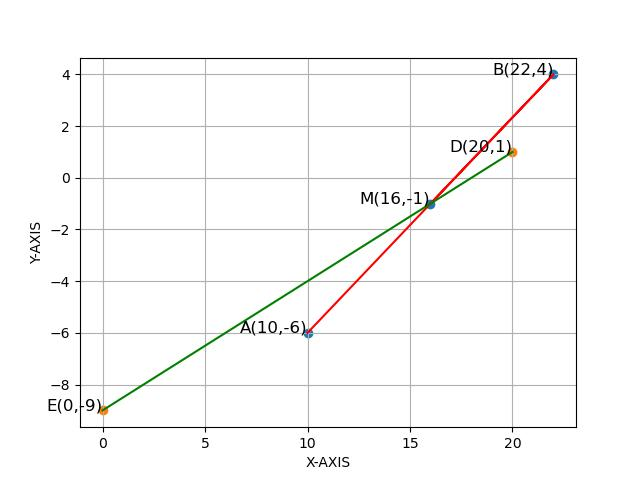
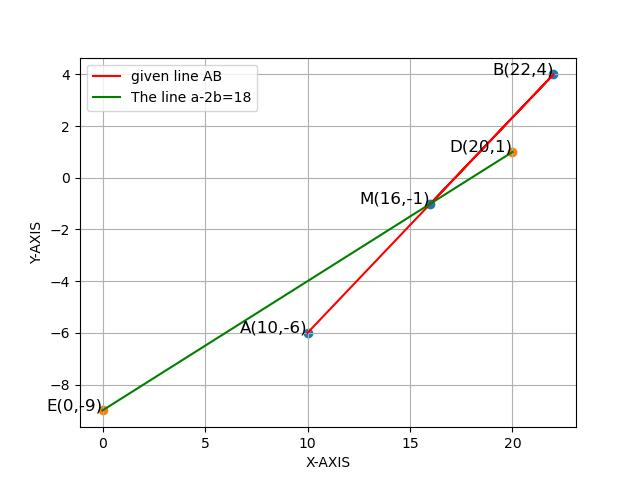
write wtvr

Changed region(s): [[0.125, 0.125, 0.4062, 0.2188]]

diff --git a/getqn3/codes/main.py b/getqn3/codes/main.py
@@ -38,9 +38,10 @@ plt.scatter(w,z)
 plt.text(w[0], z[0], labell[0], fontsize=12, ha='right')
 plt.text(w[1], z[1], labell[1], fontsize=12, ha='right')
 
-plt.plot (x,y,color='red', linestyle='-')
-plt.plot (w,z,color='green', linestyle='-')
+plt.plot (x,y,color='red', linestyle='-', label='given line AB')
+plt.plot (w,z,color='green', linestyle='-', label='The line a-2b=18')
 plt.xlabel('X-AXIS')
 plt.ylabel('Y-AXIS')
 plt.grid()
+plt.legend()
 plt.show()
